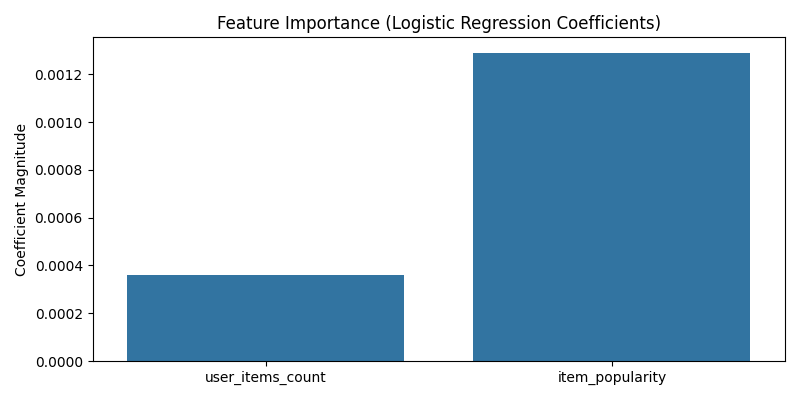
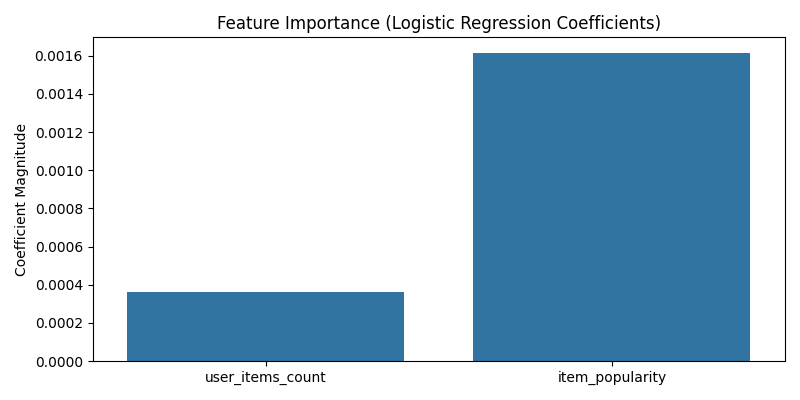
updated base model to not cheat with test set and added PR AUC

diff --git a/base_model.py b/base_model.py
@@ -5,7 +5,7 @@ import numpy as np
 import matplotlib.pyplot as plt
 from sklearn.model_selection import train_test_split
 from sklearn.linear_model import LogisticRegression
-from sklearn.metrics import classification_report, roc_auc_score, roc_curve, confusion_matrix
+from sklearn.metrics import classification_report, roc_auc_score, roc_curve, confusion_matrix, average_precision_score # Added average_precision_score
 import seaborn as sns
 
 print("Gathering data")
@@ -32,10 +32,6 @@ df = pd.DataFrame(interactions)
 df = df[df['playtime_forever'] > 0]
 
 # Checking popularity of pos
-item_popularity = df.groupby('item_id')['user_id'].nunique().reset_index()
-item_popularity.columns = ['item_id', 'item_popularity']
-
-df = df.merge(item_popularity, on='item_id', how='left')
 
 # 50/50 pos/neg sampling
 played_pairs = set(zip(df['user_id'], df['item_id']))
@@ -71,10 +67,9 @@ df_negative = pd.DataFrame({
 
 # Negative feature
 df_negative['user_items_count'] = df['user_items_count'].values
-df_negative = df_negative.merge(item_popularity, on='item_id', how='left')
 
 # Pos df
-df_positive = df[['user_id', 'item_id', 'user_items_count', 'item_popularity']].copy()
+df_positive = df[['user_id', 'item_id', 'user_items_count']].copy()
 df_positive['target'] = 1
 
 # Together
@@ -91,12 +86,31 @@ print("Training")
 # Bad data handling
 df_model = df_model.dropna()
 
-features = ['user_items_count', 'item_popularity']
-X = df_model[features]
-y = df_model['target']
-
 # Split to 80% train and 20% test
-X_train, X_test, y_train, y_test = train_test_split(X, y, test_size=0.2, random_state=42)
+# X_train, X_test, y_train, y_test = train_test_split(X, y, test_size=0.2, random_state=42)
+
+# New split logic:
+train_df, test_df = train_test_split(df_model, test_size=0.2, random_state=42)
+
+print("Calculating popularity on train set")
+# Filter for positives in train to count popularity
+train_positives = train_df[train_df['target'] == 1]
+popularity_map = train_positives.groupby('item_id')['user_id'].nunique().reset_index()
+popularity_map.columns = ['item_id', 'item_popularity']
+
+# Map popularity to train set
+train_df = train_df.merge(popularity_map, on='item_id', how='left')
+train_df['item_popularity'] = train_df['item_popularity'].fillna(0) 
+
+# Map popularity to test set 
+test_df = test_df.merge(popularity_map, on='item_id', how='left')
+test_df['item_popularity'] = test_df['item_popularity'].fillna(0) 
+
+features = ['user_items_count', 'item_popularity']
+X_train = train_df[features]
+y_train = train_df['target']
+X_test = test_df[features]
+y_test = test_df['target']
 
 # Logistic reg classifier
 model = LogisticRegression()
@@ -113,6 +127,11 @@ print(classification_report(y_test, y_pred))
 # Receiver Operating Characteristic Area Under the Curve (basically just a metric to determine acc and Type 1/Type 2 error)
 auc_score = roc_auc_score(y_test, y_pred_probability)
 print(f"ROC AUC Score: {auc_score:.4f}")
+
+# Precision-Recall AUC is better for imbalanced or recommender tasks apparently
+pr_auc = average_precision_score(y_test, y_pred_probability)
+print(f"PR AUC Score (Average Precision): {pr_auc:.4f}")
+# ------------------------
 
 # Plot ROC Curve
 fpr, tpr, thresholds = roc_curve(y_test, y_pred_probability)
